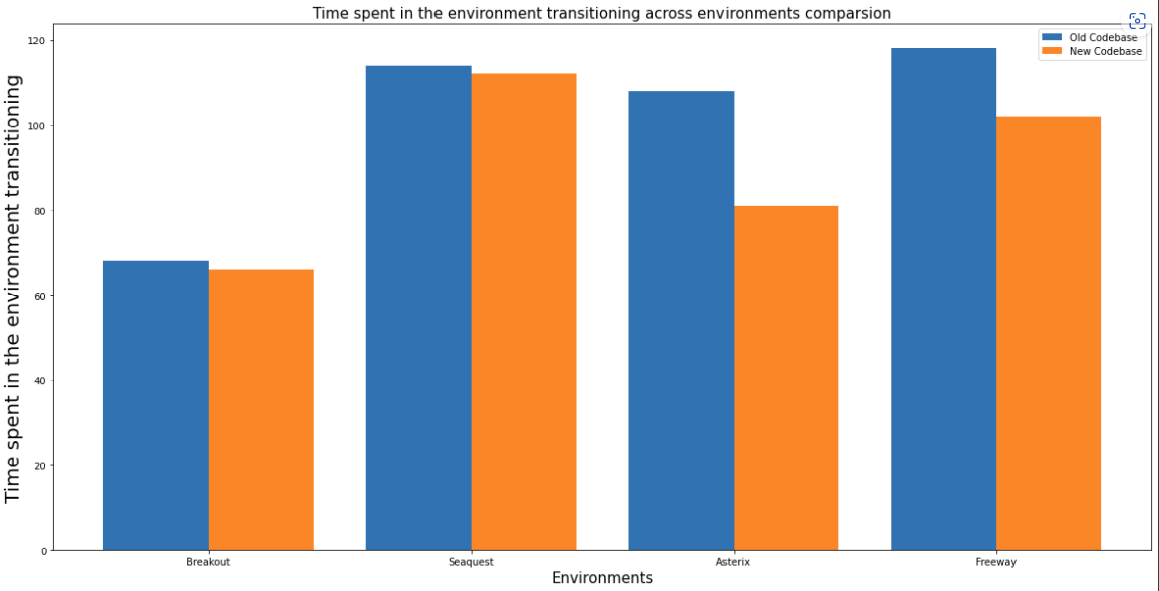
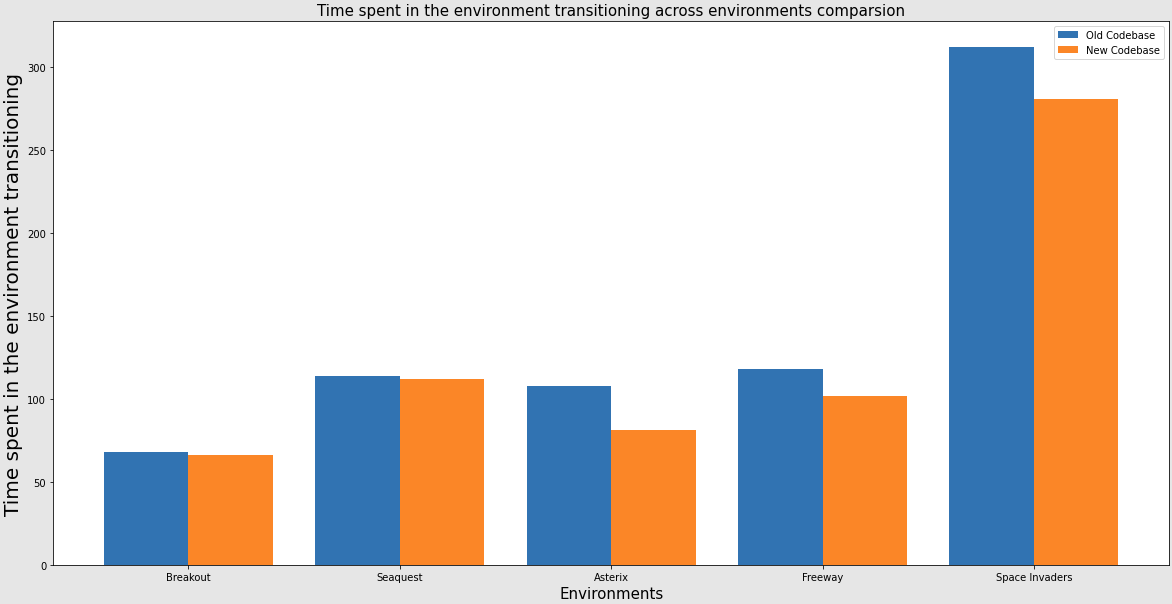
done

diff --git a/README.md b/README.md
@@ -315,15 +315,7 @@ The following plots display results for DQN (Mnih et al., 2015) and actor-critic
 
 Additionally, some of the benchmark results are shown below. The comparison is between the Soft actor-critic agent and a base model ie a Vanilla actor-critic agent. (SAC vs VAC). The agents were trained on 5 Million frames and 2500 steps per episode to compare against the original benchmark in MinAtar as well as used a new-hyperparameter approach to report the mean learning curves. The new proposed approach is part of an ongoing paper that is soon to be published, and the details will be revealed soon. 
 
-<img align="center" src="img/results2.png" width=800>
-&nbsp;
-<img align="center" src="img/results3.png" width=800>
-&nbsp;
-<img align="center" src="img/Space_Invaders.png" width=800>
-&nbsp;
-<img align="center" src="img/seaquest.png" width=800>
-&nbsp;
-<img align="center" src="img/freeway.png" width=800>
+<img align="center" src="img/results4.png" width=800>
 
 
 ## Games
@@ -359,7 +351,7 @@ If you use MinAtar - Faster in your research please cite the following:
 
 Young, K. Tian, T. (2019). MinAtar: An Atari-Inspired Testbed for Thorough and Reproducible Reinforcement Learning Experiments.  *arXiv preprint arXiv:1903.03176*.
 
-Joseph, Robert, et al. “Making Reinforcement Learning Experiments More Reproducible and Computationally Efficient.” Undergraduate Research Symposium, University of Alberta, 2022, pp. 15–16.
+George, Robert Joseph, Martha White, Adam White and Samuel Neumann. “Making Reinforcement Learning Experiments More Reproducible and Computationally Efficient.” *Reverse Expo, Alberta Machine Intelligence Institute*, 2022. (Also at the Undergraduate Research Symposium)
 
 In BibTeX format:
 
